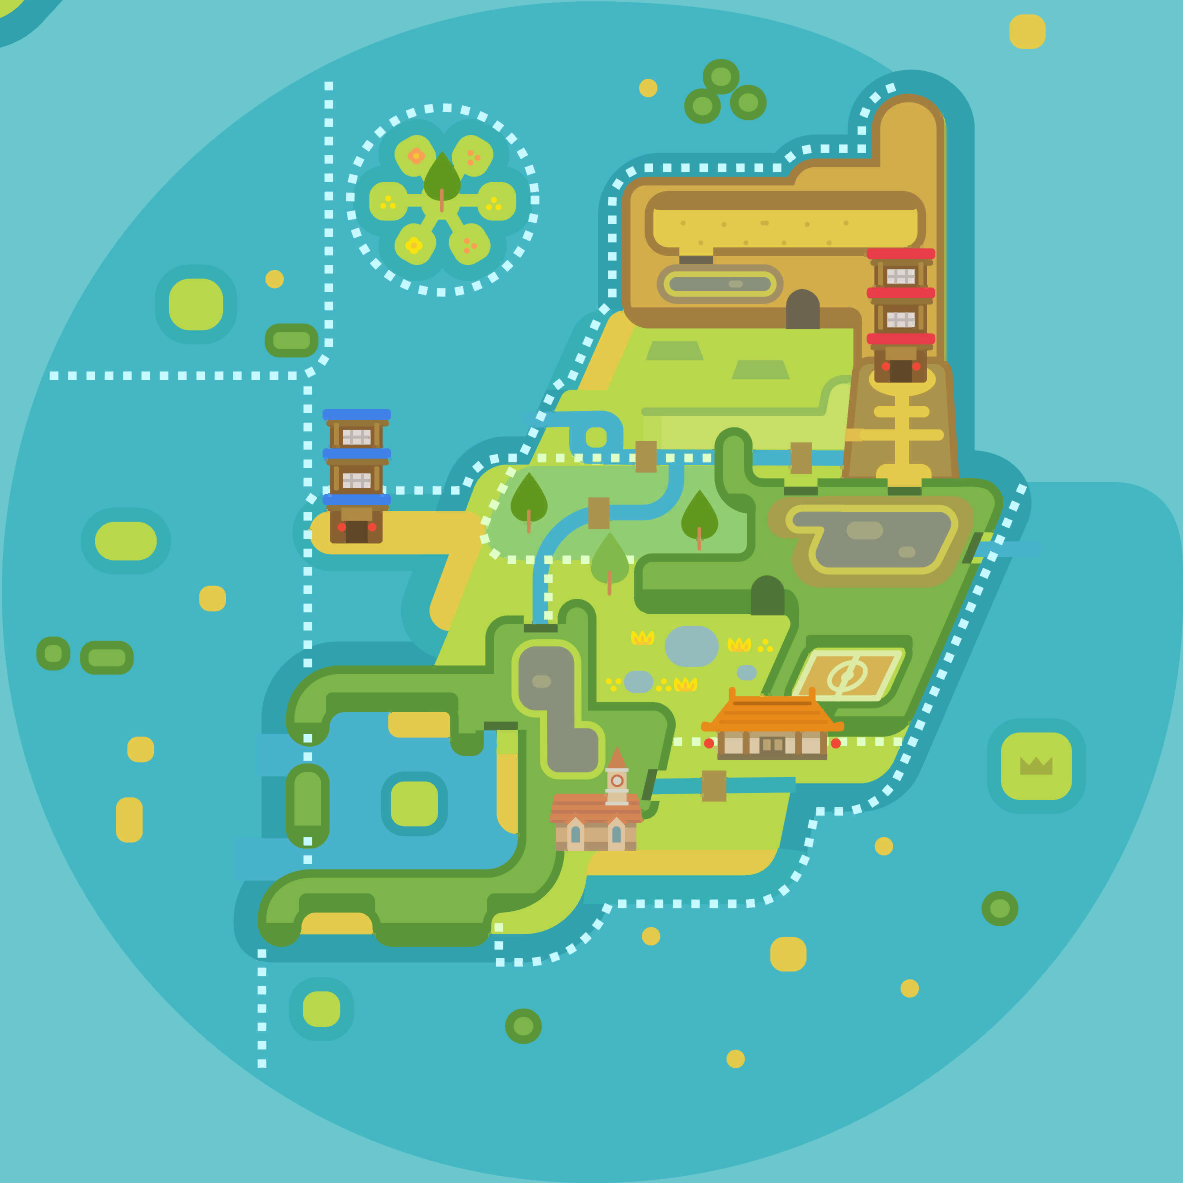
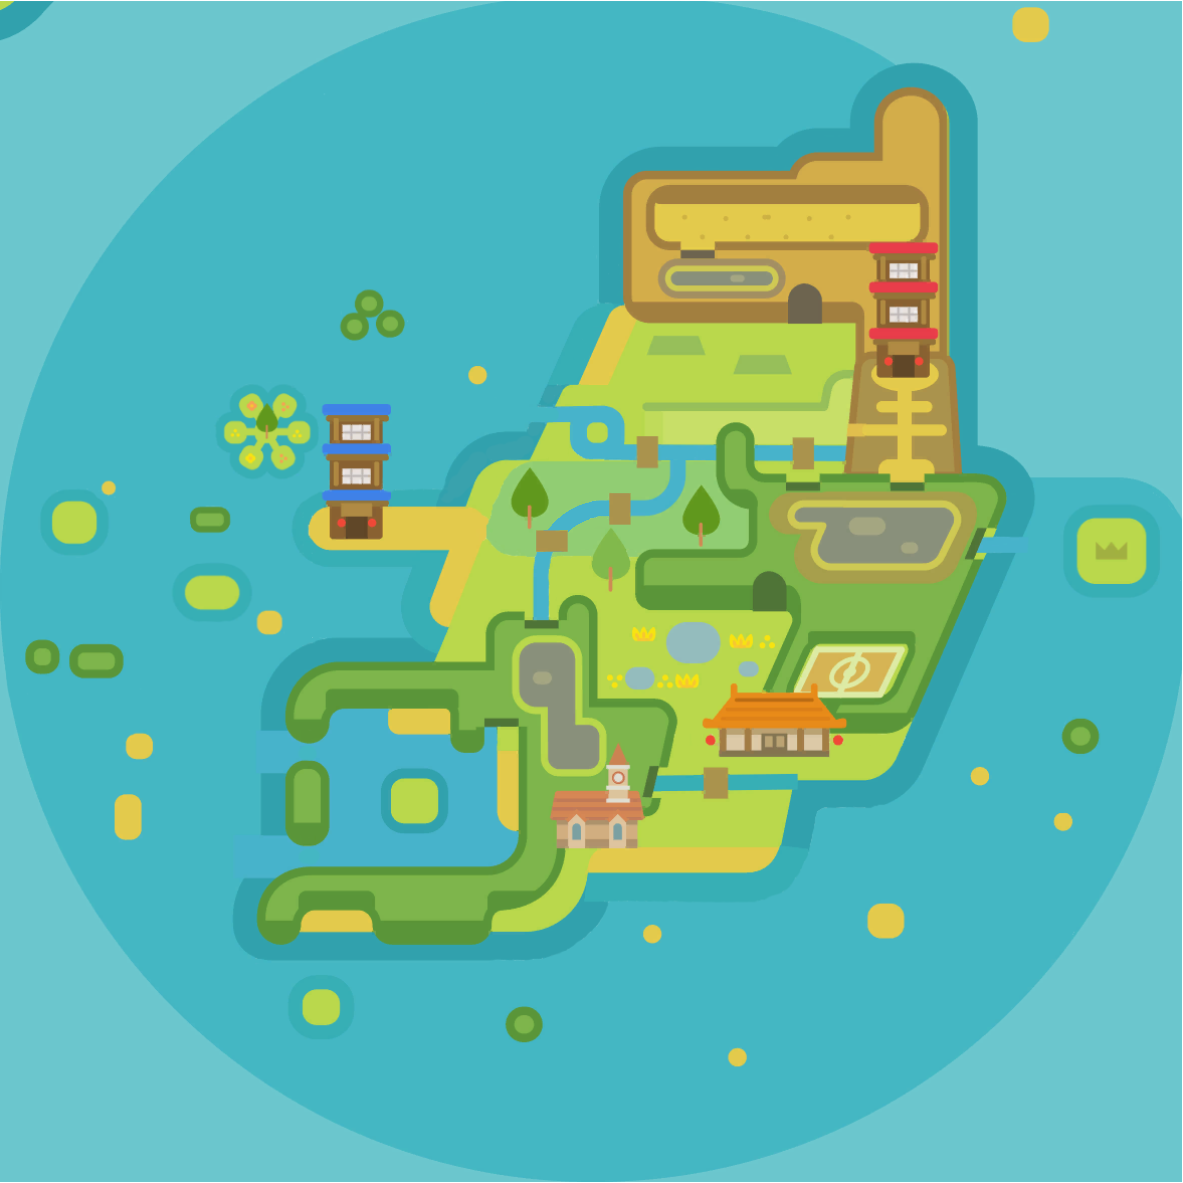
Fixed Isle of Armor map

diff --git a/index.html b/index.html
@@ -903,6 +903,14 @@
                 </div>
                 
                 <div id="filterStatus" class="filter-status" style="display: none;"></div>
+                <div class="filter-section" id="editingSection">
+                    <label>Editing:</label>
+                    <div class="star-filter-container">
+                        <button id="editToggleButton" class="star-button" onclick="toggleEditMode()">Enter Edit Mode</button>
+                        <button id="savePositionsButton" class="star-button" style="background-color:#22c55e;color:#fff;border-color:#16a34a;" onclick="saveUpdatedDenPositions()" disabled>Save Positions</button>
+                    </div>
+                    <div id="editStatus" class="filter-status" style="display: none; margin-top:10px;"></div>
+                </div>
             </div>
         </div>
     </div>
@@ -1175,6 +1183,12 @@
         let compositeMap;
         let currentModalDen = null;
         let currentModalIndex = null;
+        let editMode = false;
+        let isDraggingPin = false;
+        let draggedMarker = null;
+        let unsavedChanges = false;
+        const params = new URLSearchParams(window.location.search);
+        const isDebug = params.has('debug');
         
         // Initialize composite map
         function initializeCompositeMap() {
@@ -1234,15 +1248,144 @@
                 allMarkers.push(marker);
                 
                 marker.on('click', function() {
+                    if (editMode) return;
                     const denNumber = den.den_number || (index + 1);
                     openModal(createDenPopup(den, index), `Den #${denNumber} (${areaName})`, den, index);
                 });
+                if (isDebug) {
+                    marker.on('mousedown', onMarkerMouseDown);
+                }
             });
             
             // Force map resize after initialization
             setTimeout(() => {
                 compositeMap.invalidateSize();
             }, 100);
+
+            // Map-level handlers for dragging pins
+            if (isDebug) {
+                compositeMap.on('mousemove', onMapMouseMove);
+                compositeMap.on('mouseup', onMapMouseUp);
+            }
+        }
+
+        // Edit Mode and dragging helpers
+        function computeAreaConfig(location) {
+            if (location < 17) return COMPOSITE_LAYOUT.wild_area;
+            if (location >= 17 && location < 32) return COMPOSITE_LAYOUT.isle_of_armor;
+            return COMPOSITE_LAYOUT.crown_tundra;
+        }
+
+        function inverseTransformCoordinates(latlng, location) {
+            const compositeHeight = COMPOSITE_LAYOUT.composite.height;
+            const area = computeAreaConfig(location);
+            const transformedX = latlng.lng;
+            const transformedY = latlng.lat;
+            let MapX = transformedX - area.x;
+            let MapY = (compositeHeight - transformedY) - area.y;
+            MapX = Math.round(MapX);
+            MapY = Math.round(MapY);
+            // Clamp within area bounds
+            MapX = Math.max(0, Math.min(MapX, area.width));
+            MapY = Math.max(0, Math.min(MapY, area.height));
+            return { MapX, MapY };
+        }
+
+        function toggleEditMode() {
+            if (!isDebug) return;
+            editMode = !editMode;
+            const btn = document.getElementById('editToggleButton');
+            btn.textContent = editMode ? 'Exit Edit Mode' : 'Enter Edit Mode';
+            if (!editMode) {
+                // Ensure any drag is ended
+                endPinDrag();
+            }
+            updateEditStatusVisibility();
+        }
+
+        function updateEditStatusVisibility() {
+            const status = document.getElementById('editStatus');
+            const saveBtn = document.getElementById('savePositionsButton');
+            if (editMode) {
+                status.style.display = 'block';
+                status.innerHTML = unsavedChanges ? 'Unsaved changes. Click Save when ready.' : 'Edit Mode: drag pins to reposition, then click Save.';
+            } else {
+                status.style.display = 'none';
+            }
+            saveBtn.disabled = !unsavedChanges;
+        }
+
+        function onMarkerMouseDown(e) {
+            if (!editMode) return;
+            isDraggingPin = true;
+            draggedMarker = e.target;
+            if (compositeMap && compositeMap.dragging && compositeMap.dragging.enabled()) {
+                compositeMap.dragging.disable();
+            }
+            if (e.originalEvent && typeof e.originalEvent.preventDefault === 'function') {
+                e.originalEvent.preventDefault();
+            }
+            document.body.style.cursor = 'grabbing';
+        }
+
+        function onMapMouseMove(e) {
+            if (!editMode || !isDraggingPin || !draggedMarker) return;
+            draggedMarker.setLatLng(e.latlng);
+        }
+
+        function endPinDrag() {
+            if (!isDraggingPin || !draggedMarker) {
+                // Re-enable map dragging if it was disabled
+                if (compositeMap && compositeMap.dragging && !compositeMap.dragging.enabled()) {
+                    compositeMap.dragging.enable();
+                }
+                document.body.style.cursor = '';
+                isDraggingPin = false;
+                draggedMarker = null;
+                return;
+            }
+            const den = draggedMarker.denData;
+            const latlng = draggedMarker.getLatLng();
+            const { MapX, MapY } = inverseTransformCoordinates(latlng, den.location);
+            den.MapX = MapX;
+            den.MapY = MapY;
+            unsavedChanges = true;
+            const denNumber = den.den_number || '?';
+            const status = document.getElementById('editStatus');
+            if (status) {
+                status.innerHTML = `Moved Den #${denNumber} to MapX ${MapX}, MapY ${MapY}`;
+            }
+            const saveBtn = document.getElementById('savePositionsButton');
+            if (saveBtn) saveBtn.disabled = false;
+            if (compositeMap && compositeMap.dragging && !compositeMap.dragging.enabled()) {
+                compositeMap.dragging.enable();
+            }
+            document.body.style.cursor = '';
+            isDraggingPin = false;
+            draggedMarker = null;
+        }
+
+        function onMapMouseUp(e) {
+            if (!editMode) return;
+            endPinDrag();
+        }
+
+        function saveUpdatedDenPositions() {
+            try {
+                const dataStr = JSON.stringify(denData, null, 2);
+                const blob = new Blob([dataStr], { type: 'application/json' });
+                const a = document.createElement('a');
+                a.href = URL.createObjectURL(blob);
+                a.download = 'den_locations.json';
+                document.body.appendChild(a);
+                a.click();
+                URL.revokeObjectURL(a.href);
+                document.body.removeChild(a);
+                unsavedChanges = false;
+                updateEditStatusVisibility();
+            } catch (err) {
+                console.error('Failed to save positions:', err);
+            }
         }
         
         // Keep all existing modal, filtering, and Pokemon functions
@@ -2013,6 +2156,11 @@
         
         // Event listeners
         document.addEventListener('DOMContentLoaded', function() {
+            // Hide editing UI unless debug param present
+            const editingSection = document.getElementById('editingSection');
+            if (editingSection && !isDebug) {
+                editingSection.style.display = 'none';
+            }
             document.getElementById('denModal').addEventListener('click', function(e) {
                 if (e.target === this) {
                     closeModal();
@@ -2040,6 +2188,14 @@
                     e.stopPropagation();
                 }
             });
+            // End pin drag if mouse released outside map
+            if (isDebug) {
+                document.addEventListener('mouseup', function() {
+                    if (editMode) {
+                        endPinDrag();
+                    }
+                });
+            }
         });
         
         // Window resize handler
